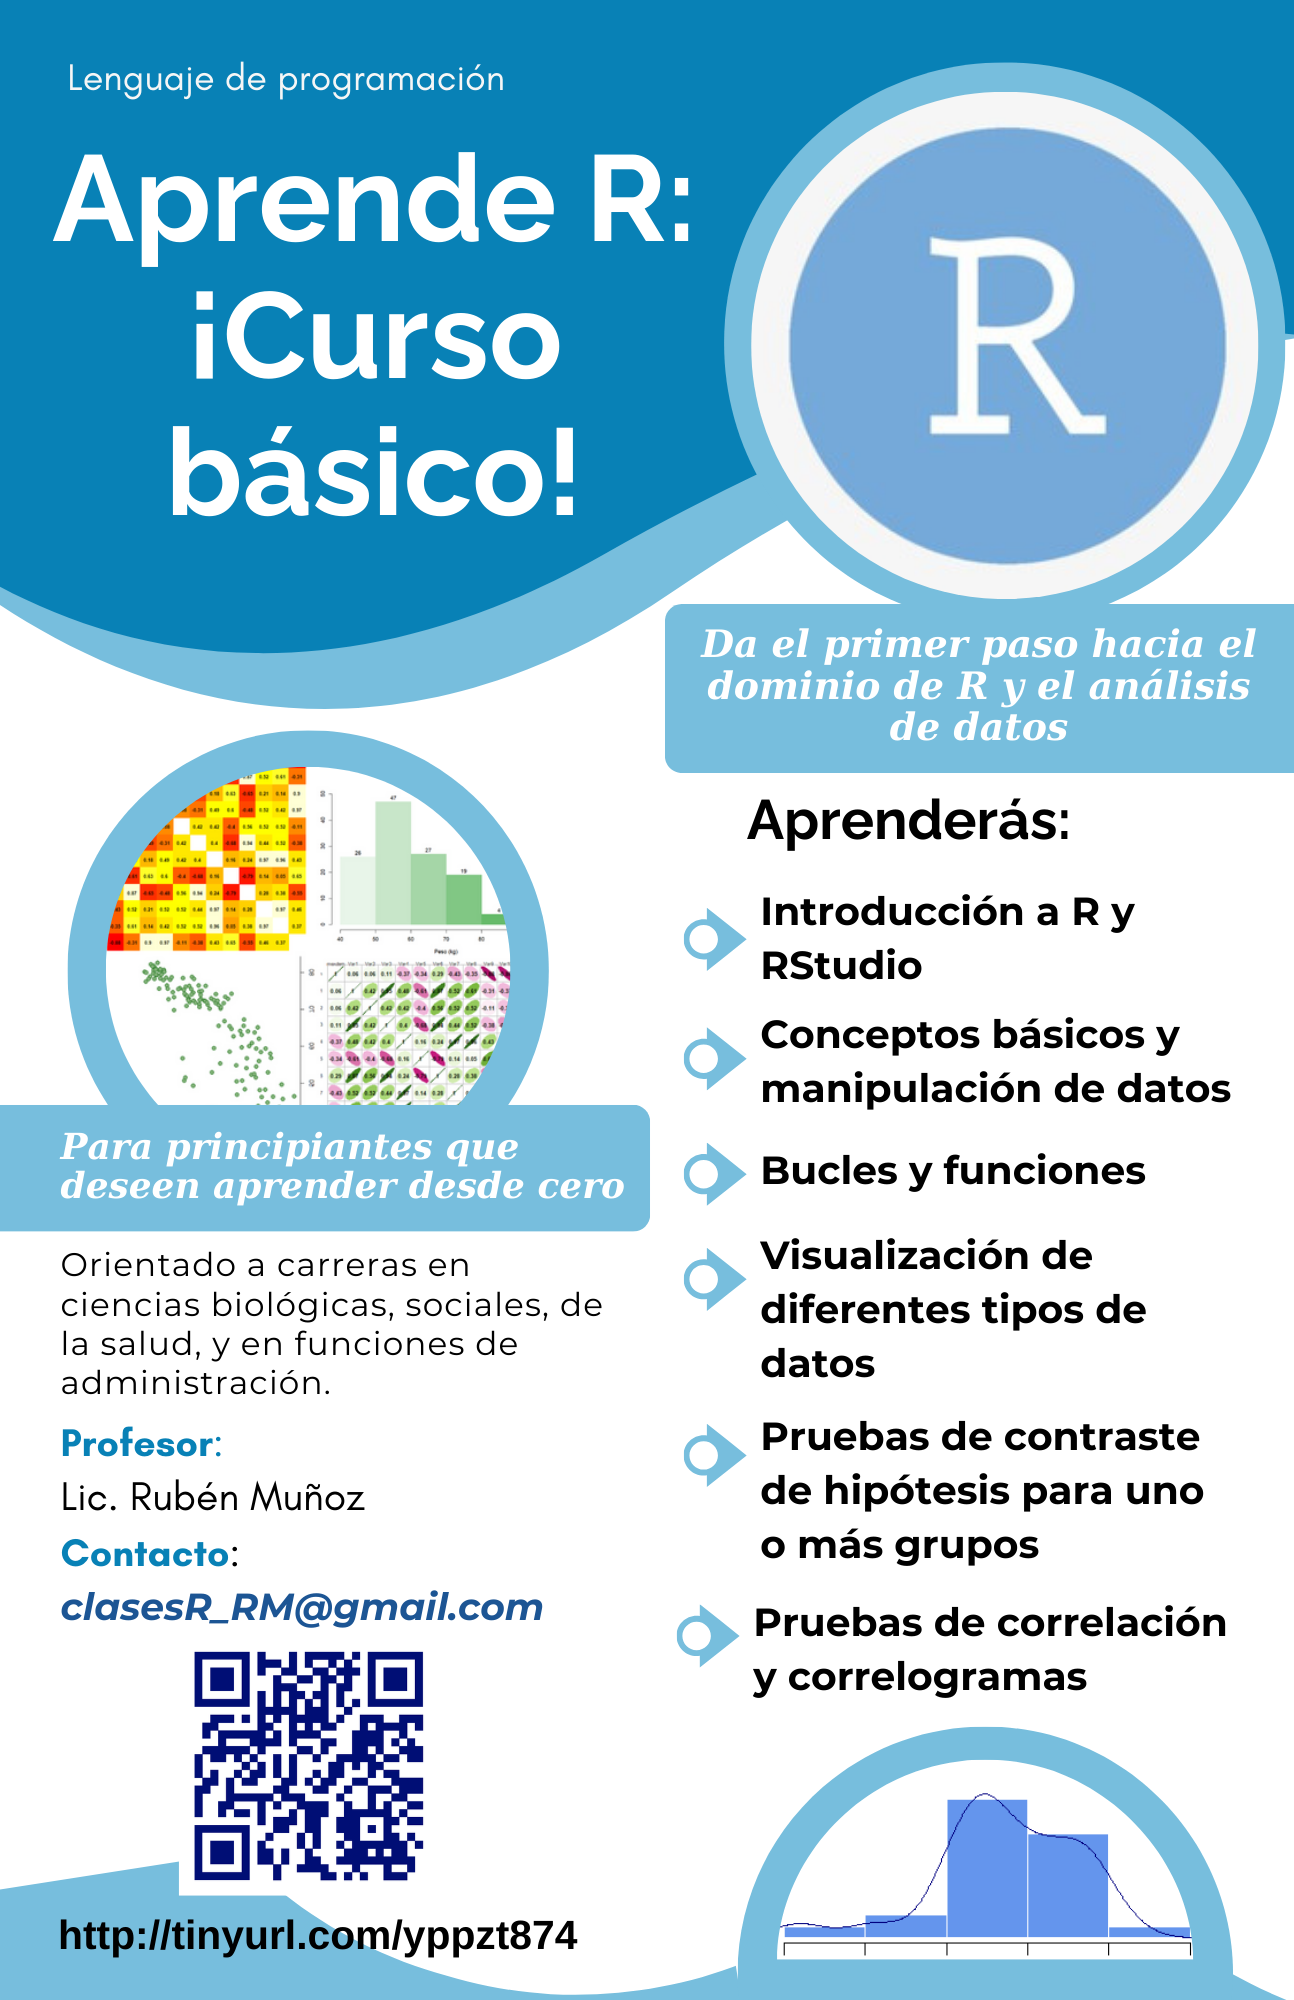
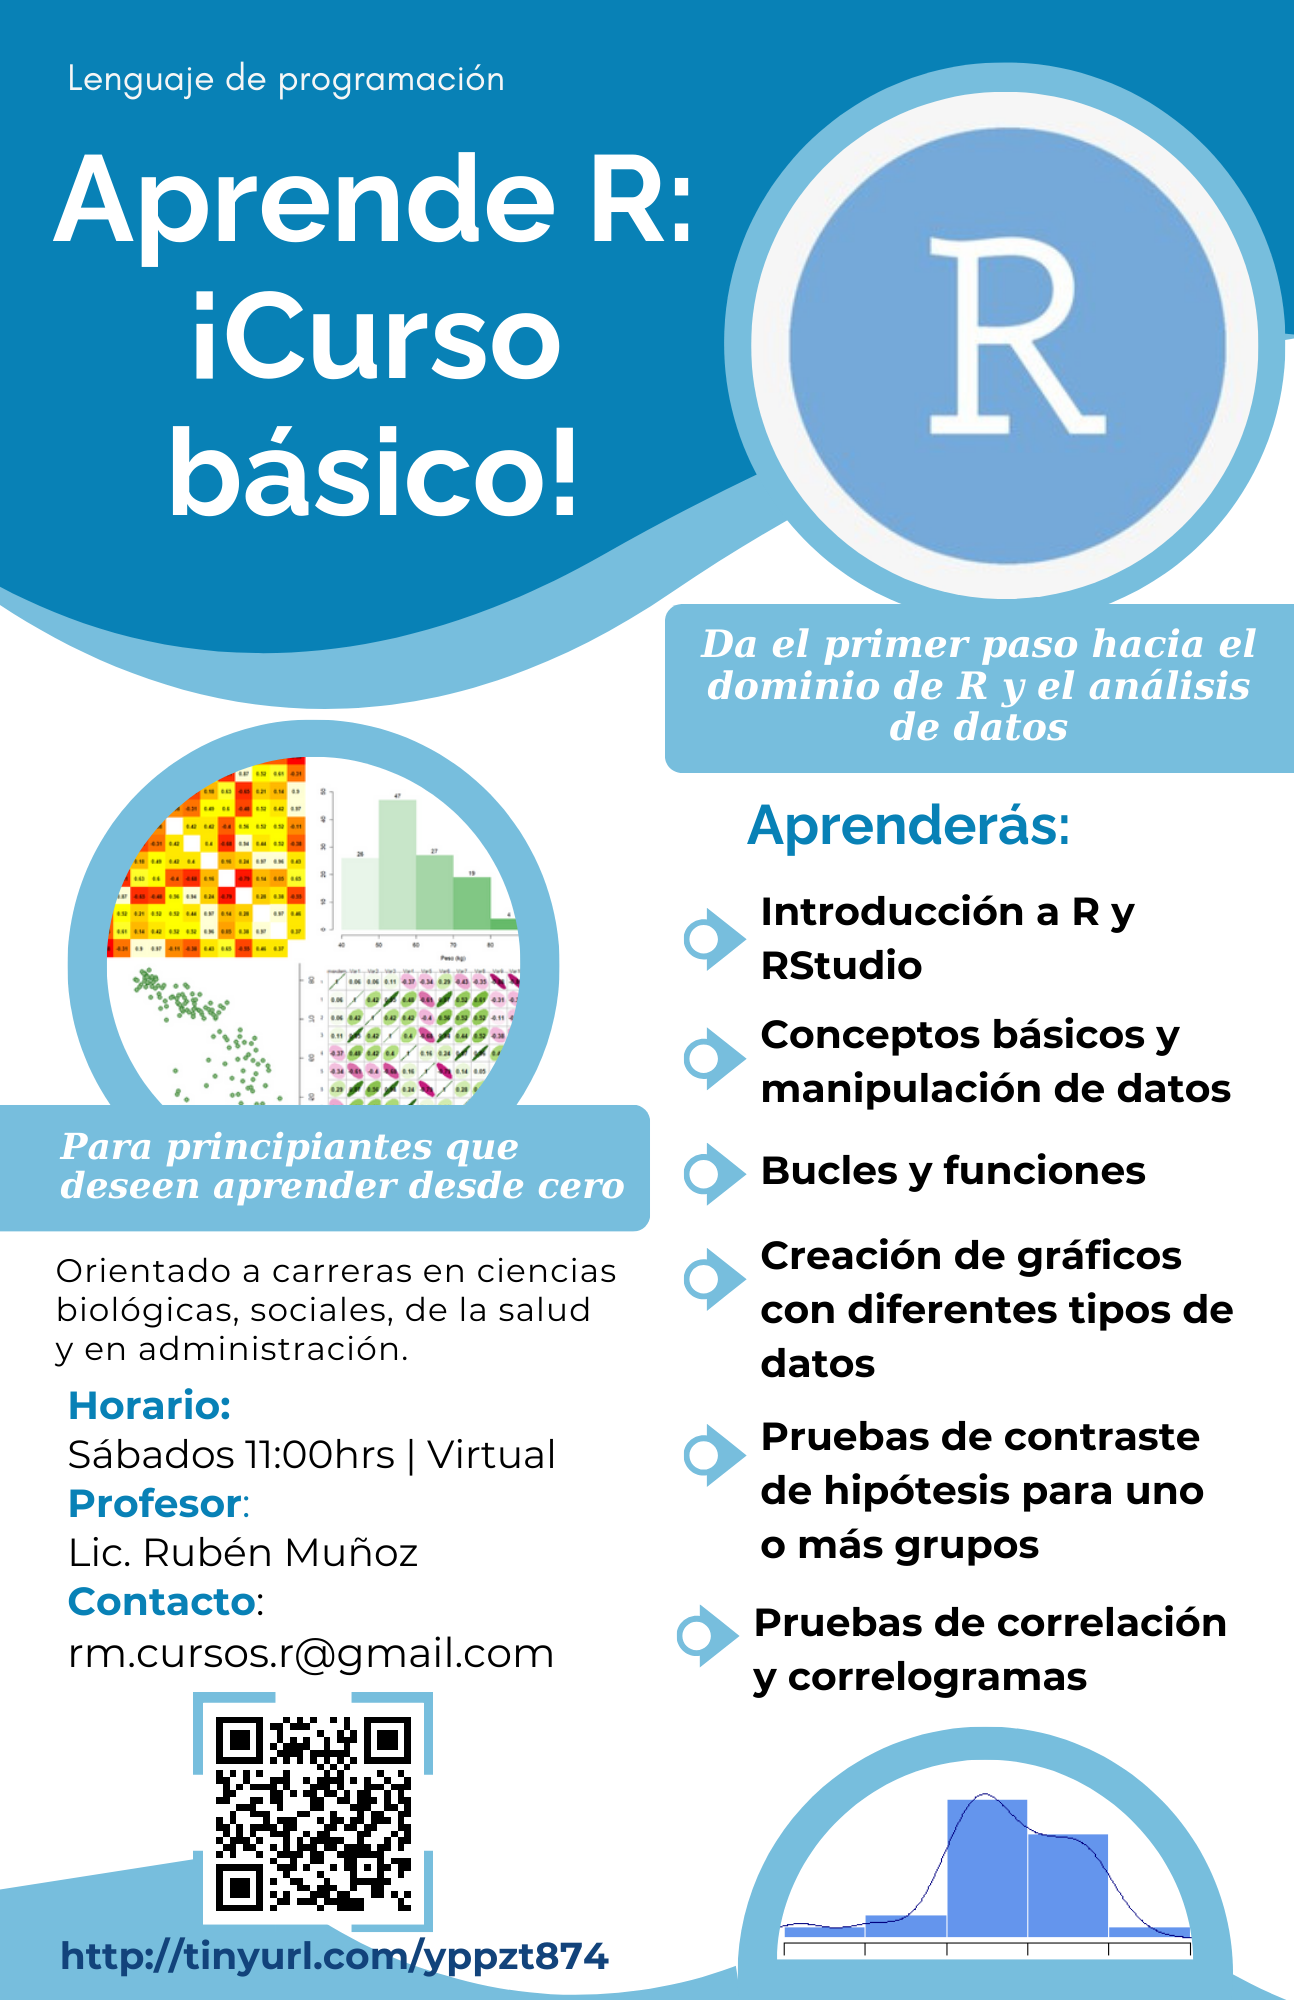
Add files via upload

diff --git a/index.html b/index.html
@@ -341,17 +341,26 @@ div.tocify {
 </div>
 
 
-<div id="curso-r-2024" class="section level1">
-<h1><strong>Curso R 2024</strong></h1>
+<div>
+<h3 class="mission">
+<strong> Curso R 2024</strong>
+</h3>
+<p class="nombre">
+Rubén Muñoz
+</p>
+</div>
 <div id="aprende-r-curso-básico" class="section level3">
 <h3>Aprende R: Curso Básico</h3>
 <p>¡Bienvenido al Curso Básico de R!</p>
+<div class="img3" style="text-align:center">
+<p><img src="imagenes/logoRRemoveBg.png" style="width:30.0%" /></p>
+</div>
 <body>
 <div class="container">
 <blockquote>
 <h3 id="qué-es-r"><strong>¿Qué es R?</strong></h3>
 </blockquote>
-<p>
+<p class="texto">
 R es un lenguaje de programación estadística ampliamente utilizado en el
 análisis de datos y la visualización. Es gratuito, de código abierto y
 cuenta con una amplia comunidad de usuarios y desarrolladores que
@@ -360,7 +369,7 @@ contribuyen constantemente al crecimiento y la mejora del software.
 <blockquote>
 <h3 id="por-qué-aprender-r"><strong>¿Por qué aprender R?</strong></h3>
 </blockquote>
-<p>
+<p class="texto">
 <ul>
 <li>Poderoso: R ofrece una amplia gama de herramientas estadísticas y
 gráficas para analizar y visualizar datos.</li>
@@ -377,26 +386,28 @@ análisis de datos.</li>
 <h3 id="qué-aprenderás-en-este-curso"><strong>¿Qué aprenderás en este
 curso?</strong></h3>
 </blockquote>
-<p>
-<p>En este curso básico de R, cubriremos los fundamentos que necesitas
-para comenzar a utilizar R para el análisis de datos. Algunos de los
-temas que cubriremos incluyen:</p>
-<p>Introducción a R y RStudio Manipulación de datos con R Visualización
-de datos Estadísticas descriptivas Y mucho más!</p>
+<p class="texto">
+En este curso básico de R, cubriremos los fundamentos que necesitas para
+comenzar a utilizar R para el análisis de datos. Algunos de los temas
+que cubriremos incluyen: Introducción a R y RStudio Manipulación de
+datos con R Visualización de datos y creación de gráficos base Pruebas
+de contraste de hipótesis Y mucho más!
 </p>
 <blockquote>
 <h3 id="quién-debería-tomar-este-curso"><strong>¿Quién debería tomar
 este curso?</strong></h3>
 </blockquote>
-<p>
+<p class="texto">
 Este curso está diseñado para principiantes que deseen aprender R desde
-cero. No se requiere experiencia previa en programación o estadísticas,
-¡solo una mente curiosa y ganas de aprender!
+cero. No se requiere experiencia previa en programación o estadística.
+Sin embargo está orientado a carreras en ciencias biológicas, sociales,
+de la salud y en administración. ¡solo una mente curiosa y ganas de
+aprender!
 </p>
 <blockquote>
 <h3 id="cómo-empezar"><strong>¿Cómo empezar?</strong></h3>
 </blockquote>
-</p>
+<p class="texto">
 ¡Es fácil empezar! Regístrate ahora para acceder al curso y dar el
 primer paso hacia el dominio de R y el análisis de datos.
 </p>
@@ -418,7 +429,6 @@ primer paso hacia el dominio de R y el análisis de datos.
 class="email">RM_ClasesR@gmail.com</a></em>
 </p>
 </footer>
-</div>
 </div>
 
 

diff --git a/custom.css b/custom.css
@@ -19,6 +19,15 @@ body {
     font-family: 'Verdana', sans-serif;
     font-size: 20px;
 }
+
+.texto{
+    font-family: 'Verdana', sans-serif;
+    font-size: 20px;
+    text-align: justify;
+    width: 70%;
+    
+  
+}
 /* Estilo básico para el pie de página */
 footer {
   background-color: #04488b; /* Color de fondo */
@@ -37,7 +46,7 @@ footer {
 
 .img {
     text-align: center;
-    width: 60%;
+    width: 90%;
     vertical-align: top;
     margin: 5% auto;
     padding: 30px 20px;
